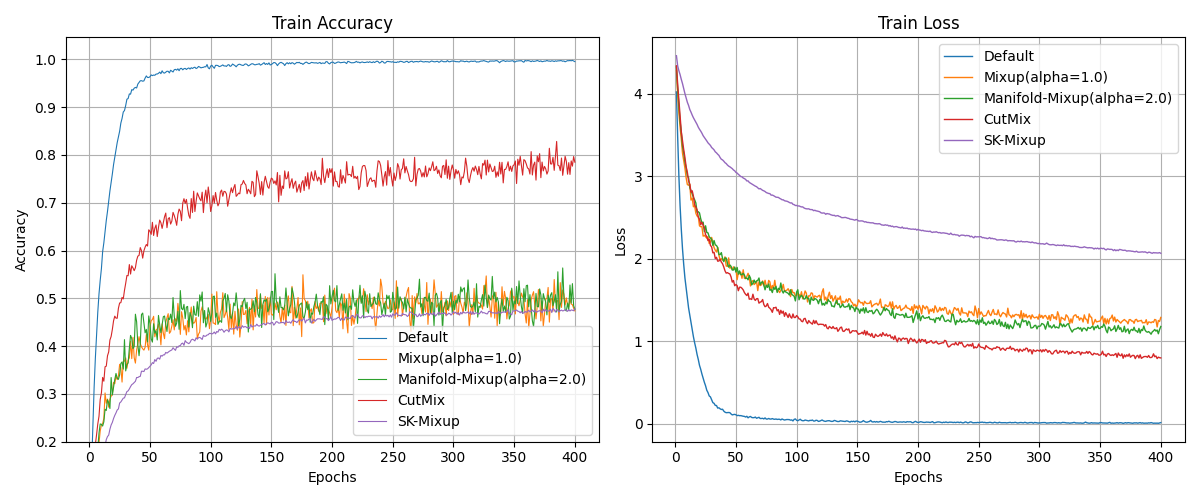
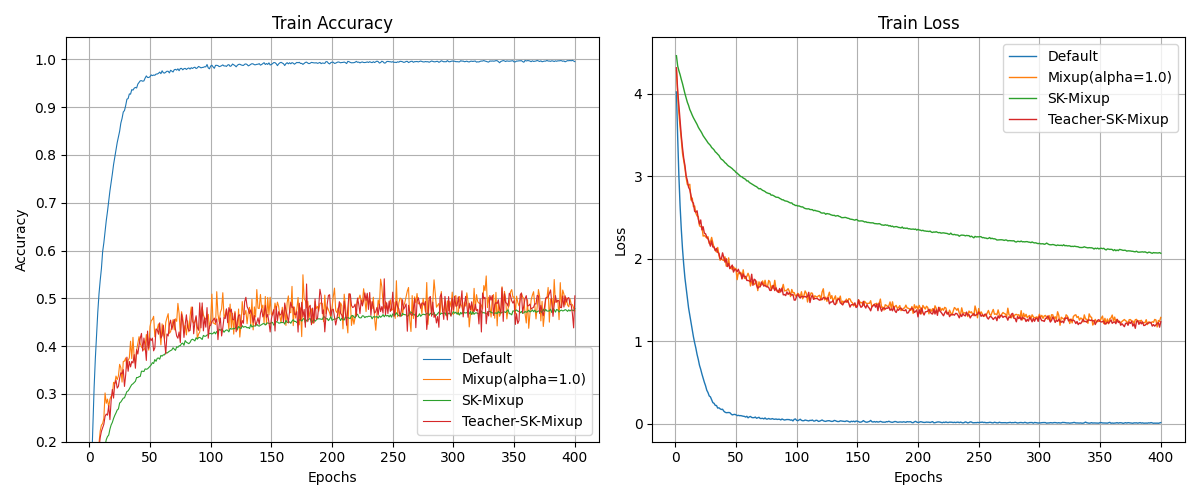
meeting

diff --git a/print_acc.py b/print_acc.py
@@ -2,14 +2,14 @@ import pickle
 
 dic = {}
 
-pickle_file_path = f'./history/wide_resnet_28_10/Mixup(alpha=0.5)/cifar100_400_0.pickle'
+pickle_file_path = f'./history/wide_resnet_28_10/Teacher-SK-Mixup/cifar100_400_0.pickle'
 with open(pickle_file_path, 'rb') as f:
     dic = pickle.load(f)
 
 for epoch in range(400):
-    train_acc = dic["accuracy"][epoch]
+    train_acc  = dic["accuracy"][epoch]
     train_loss = dic["loss"][epoch]
-    val_acc = dic["val_accuracy"][epoch]
-    val_loss = dic["val_loss"][epoch]
+    val_acc    = dic["val_accuracy"][epoch]
+    val_loss   = dic["val_loss"][epoch]
 #    if val_acc >= 0.64:
     print(f"| {epoch+1} | Train loss: {train_loss:.3f} | Train acc: {train_acc:.3f} | Val loss: {val_loss:.3f} | Val acc: {val_acc:.3f} |")

diff --git a/result.py b/result.py
@@ -27,15 +27,16 @@ def main():
         # "Mixup(alpha=5.0)",
         # "Manifold-Mixup(alpha=0.5)",
         # "Manifold-Mixup(alpha=1.0)",
-        "Manifold-Mixup",
+        # "Manifold-Mixup",
         # "Manifold-Mixup(alpha=5.0)",
         # "Mixup-Curriculum",
 
-        "CutMix",
+        # "CutMix",
         # "AugMix",
 
         # "Ent-Mixup",
         "SK-Mixup",
+        "Teacher-SK-Mixup"
 
         # "FOMA",
         # "FOMA_latent_random",
